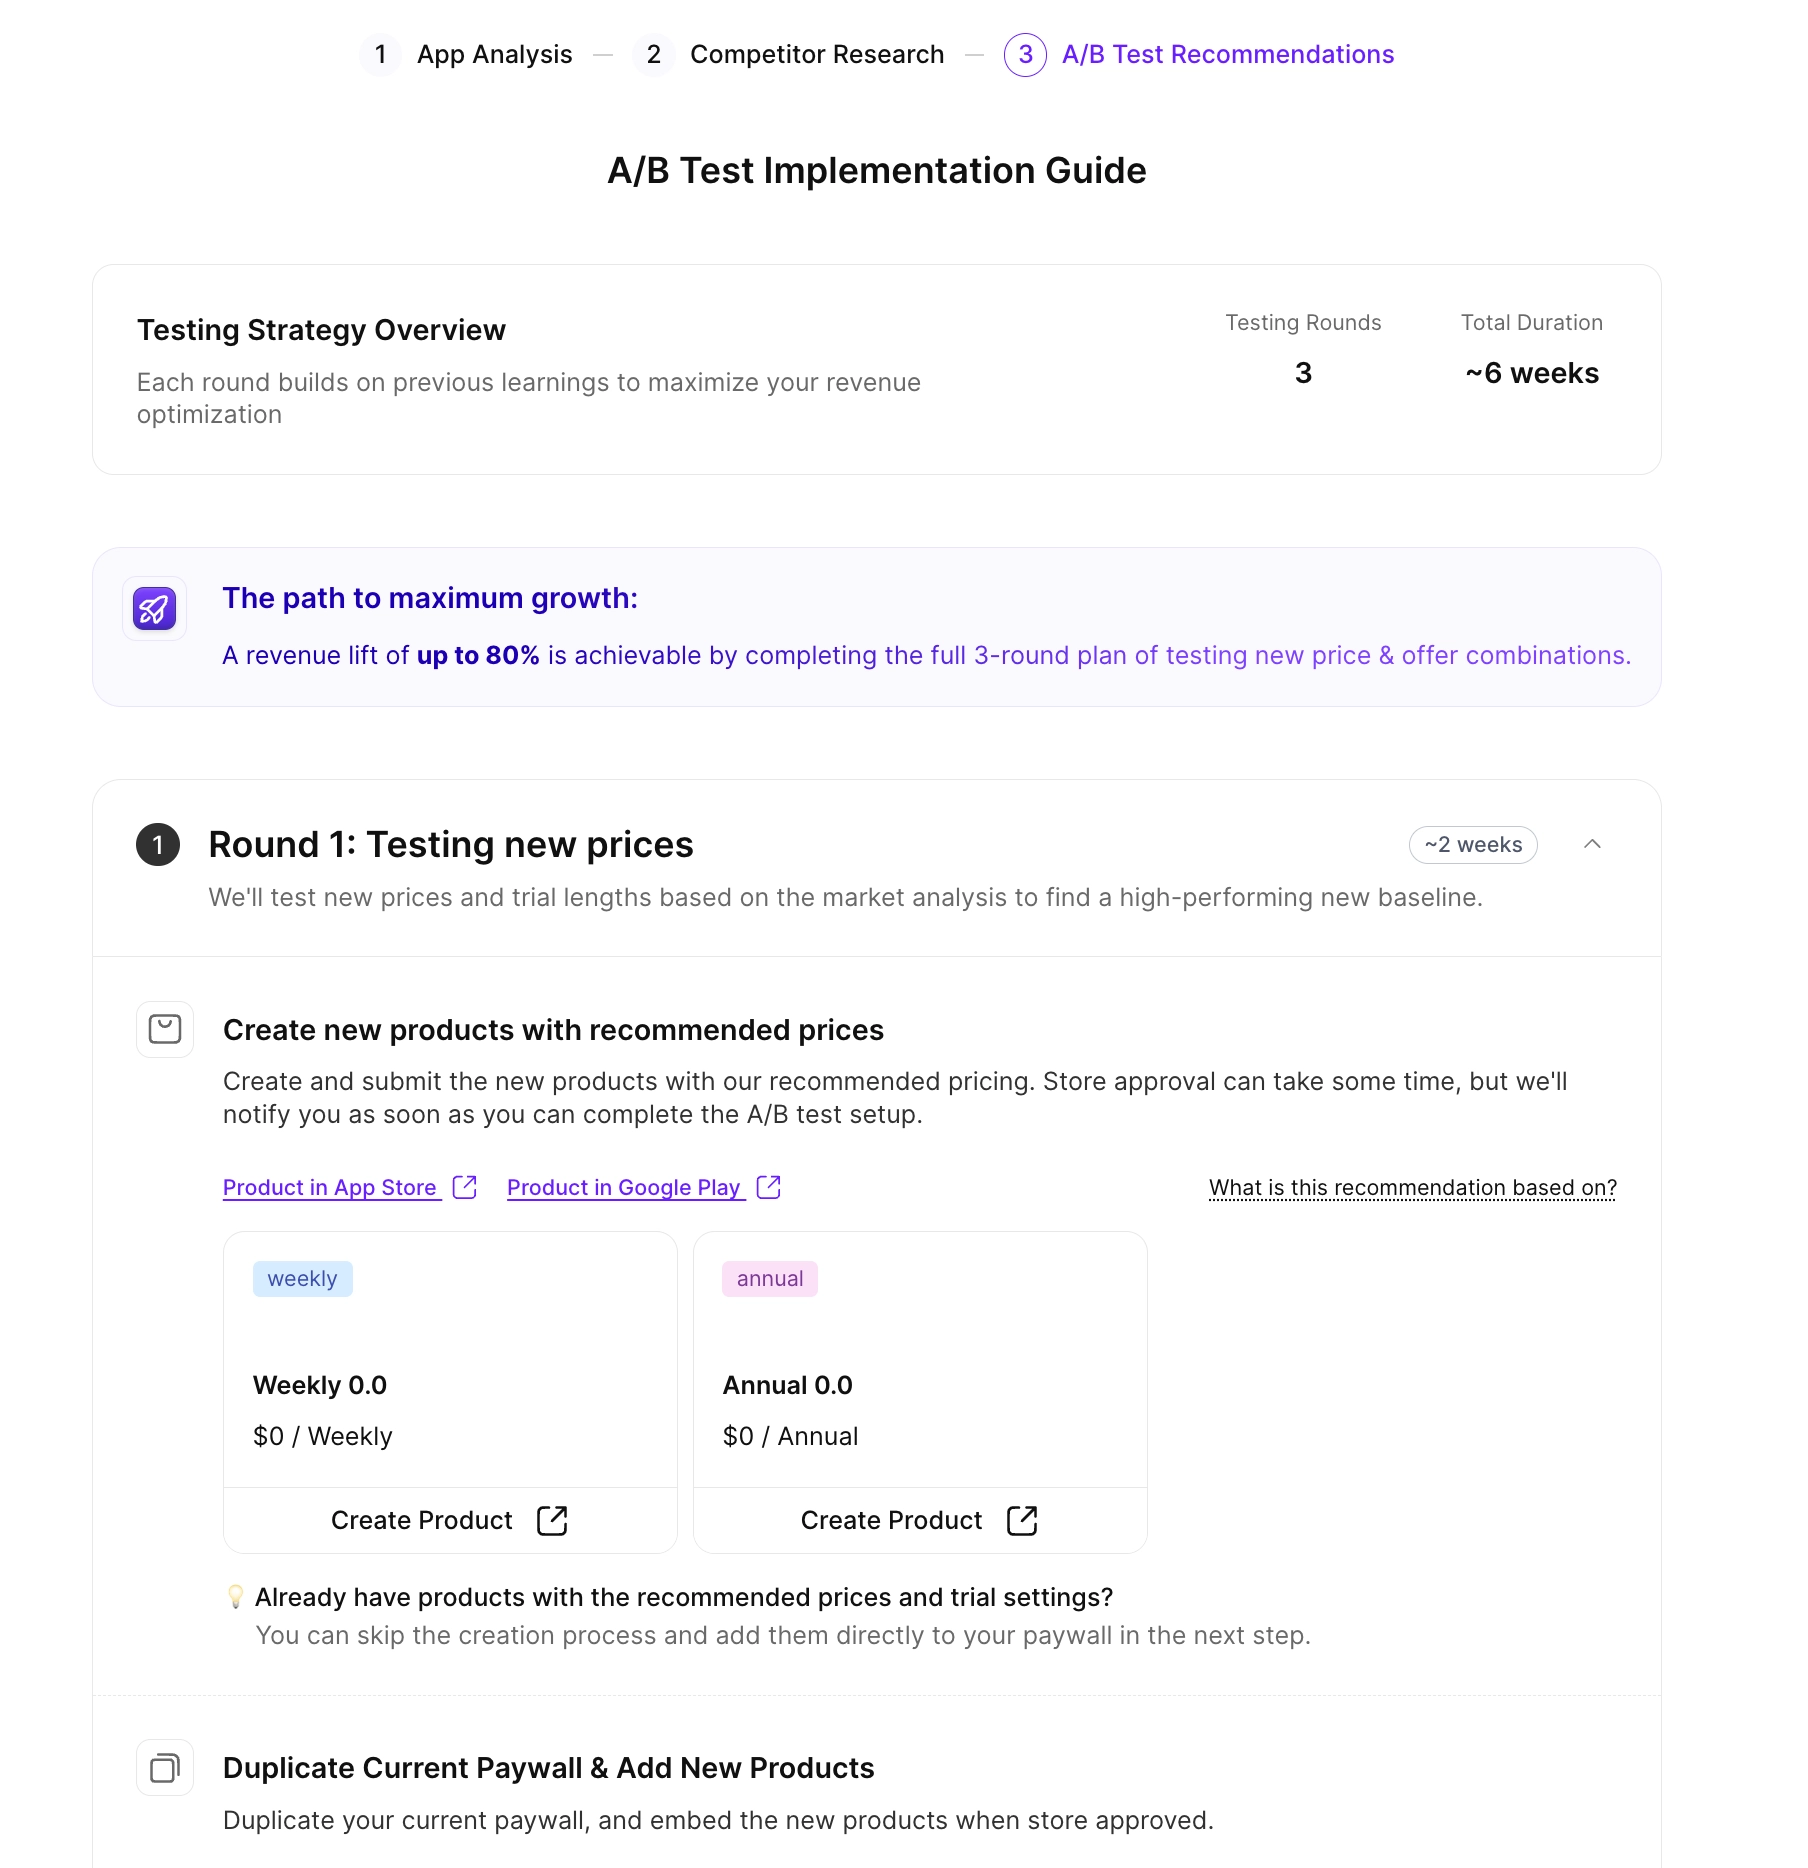
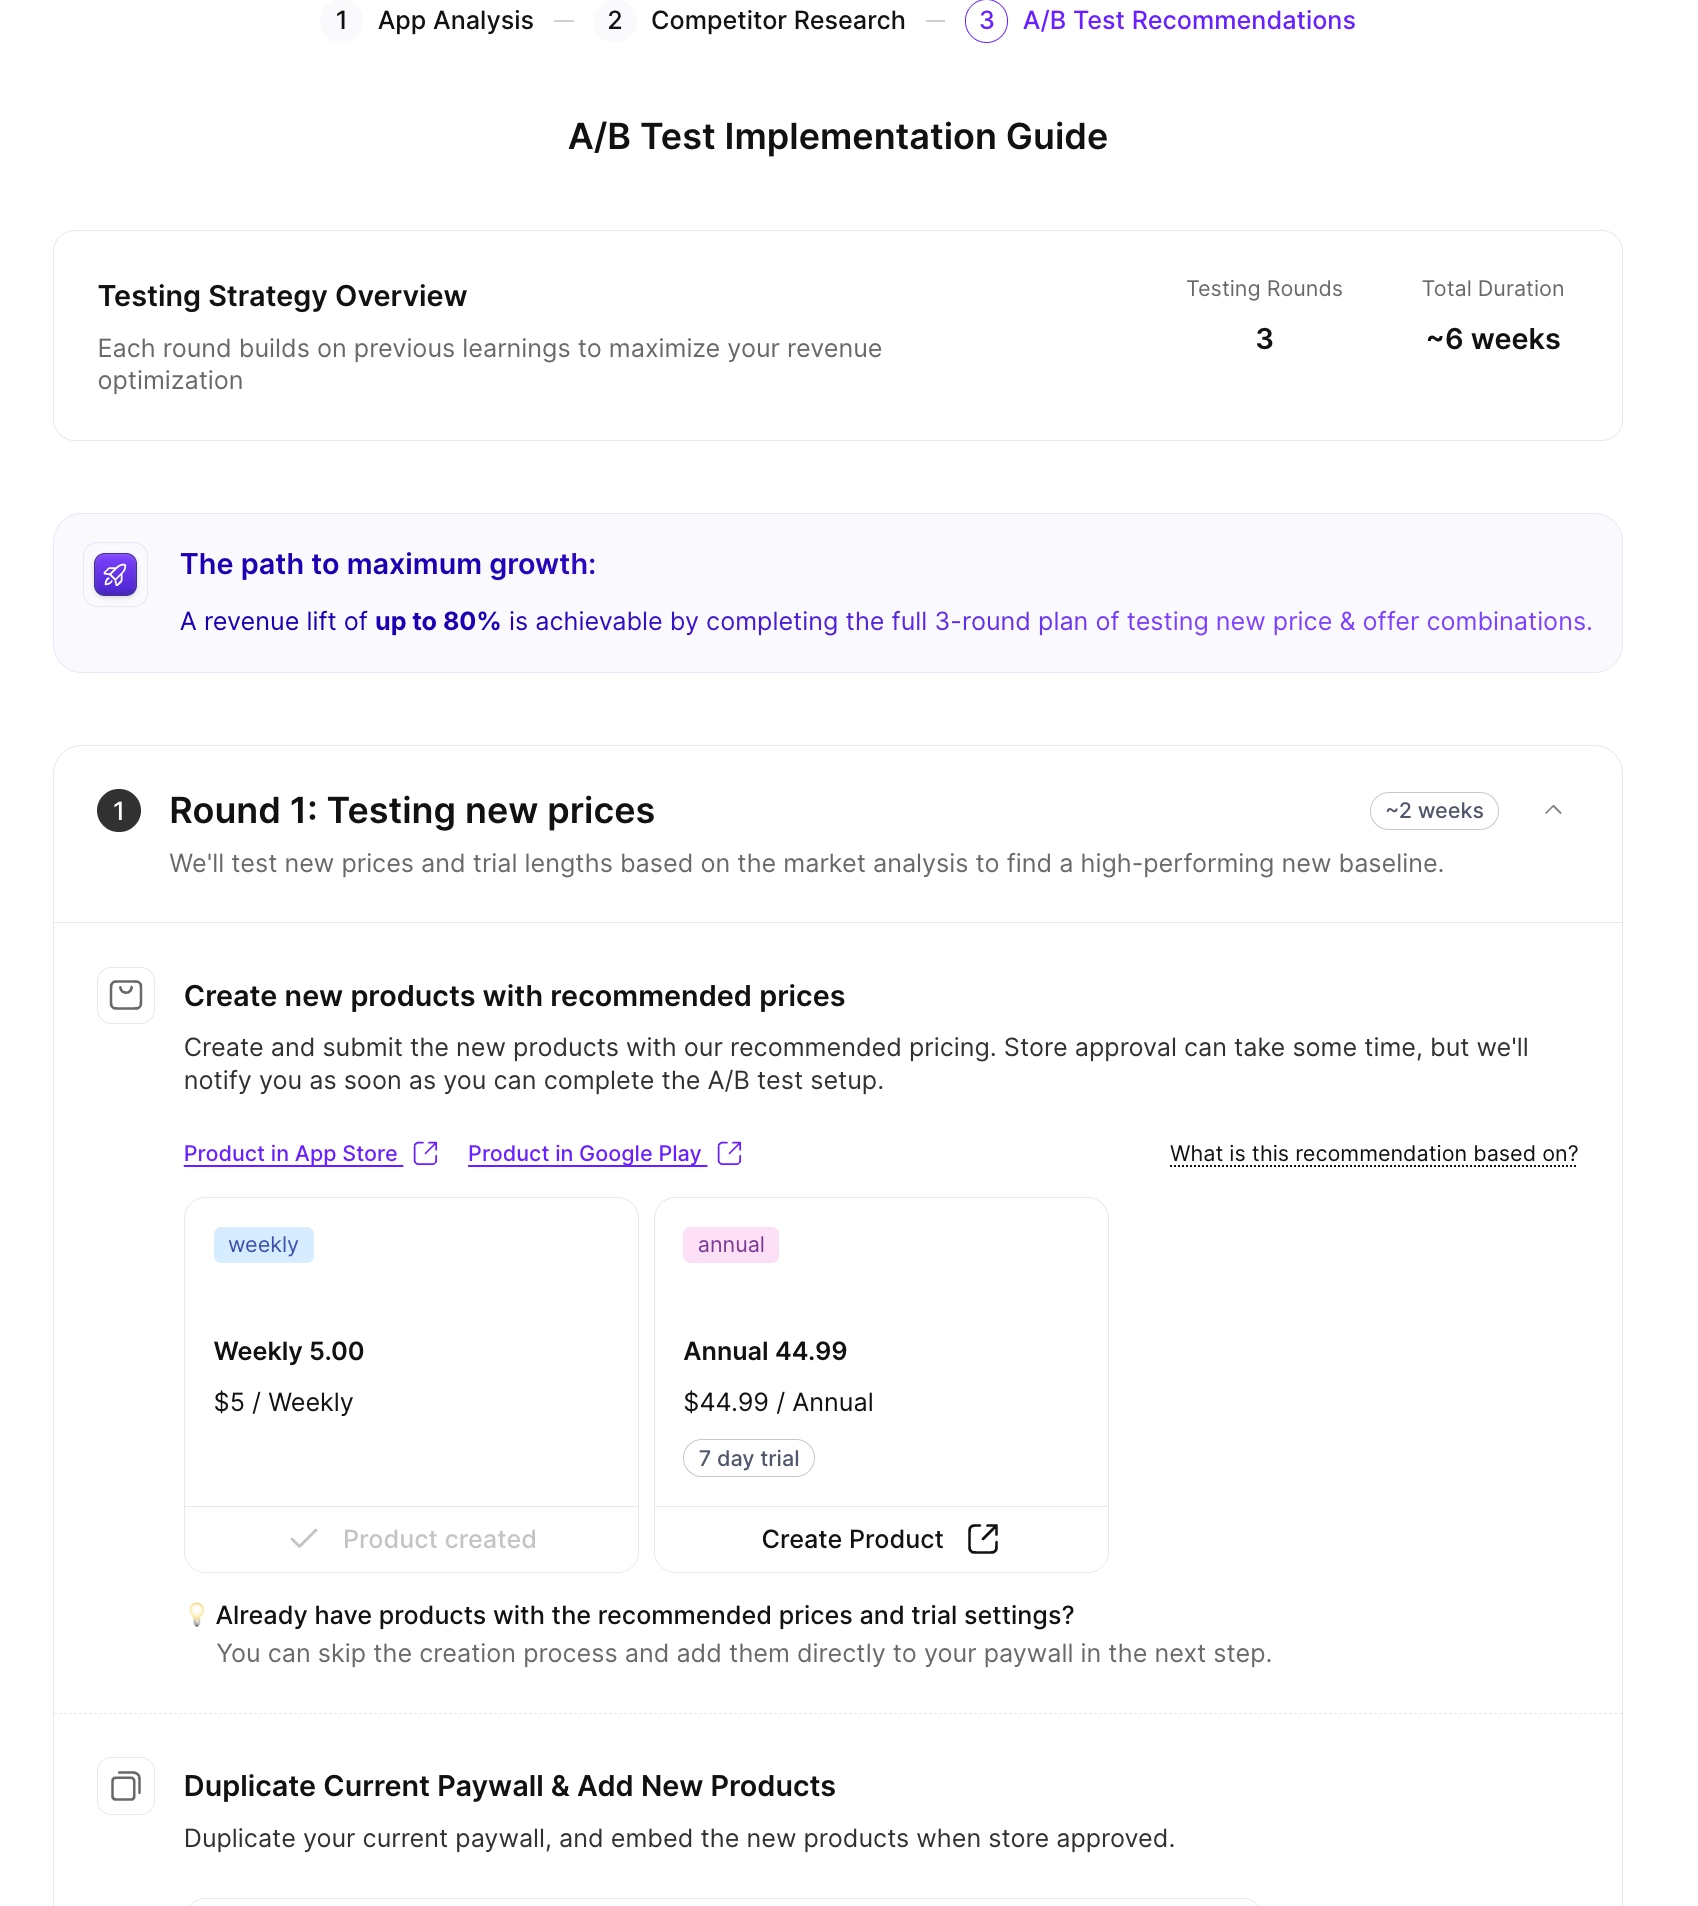
Autopilot doc improvements

diff --git a/versioned_docs/version-3.0/autopilot.md b/versioned_docs/version-3.0/autopilot.md
@@ -140,9 +140,13 @@ Your plan consists of three parts: setting new prices, updating paywalls, and co
 
 To start with the first stage:
 
-1. Create new products right from the report. Don't forget to add them to stores as well ([App Store](app-store-products.md) and [Google Play](android-products.md)).
-2. Duplicate your current top-performing paywall and add products to it.
+1. Create new products right from the report or modify your existing products. Don't forget to add them to stores as well ([App Store](app-store-products.md) and [Google Play](android-products.md)).
+2. Duplicate your current top-performing paywall and add products to it. You can also modify your current paywall design according to the recommendations.
 3. Launch A/B test that will compare how the new paywall performs against the current paywall.
+
+:::important
+The recommendations page will show you the target number of subscribers and the minimum duration for the A/B test. Follow these recommendations to get the most accurate data before you begin with the next stage. You will need to stop the A/B test manually.
+:::
 
 <Zoom>
   <img src={require('./img/recommendation.webp').default}
